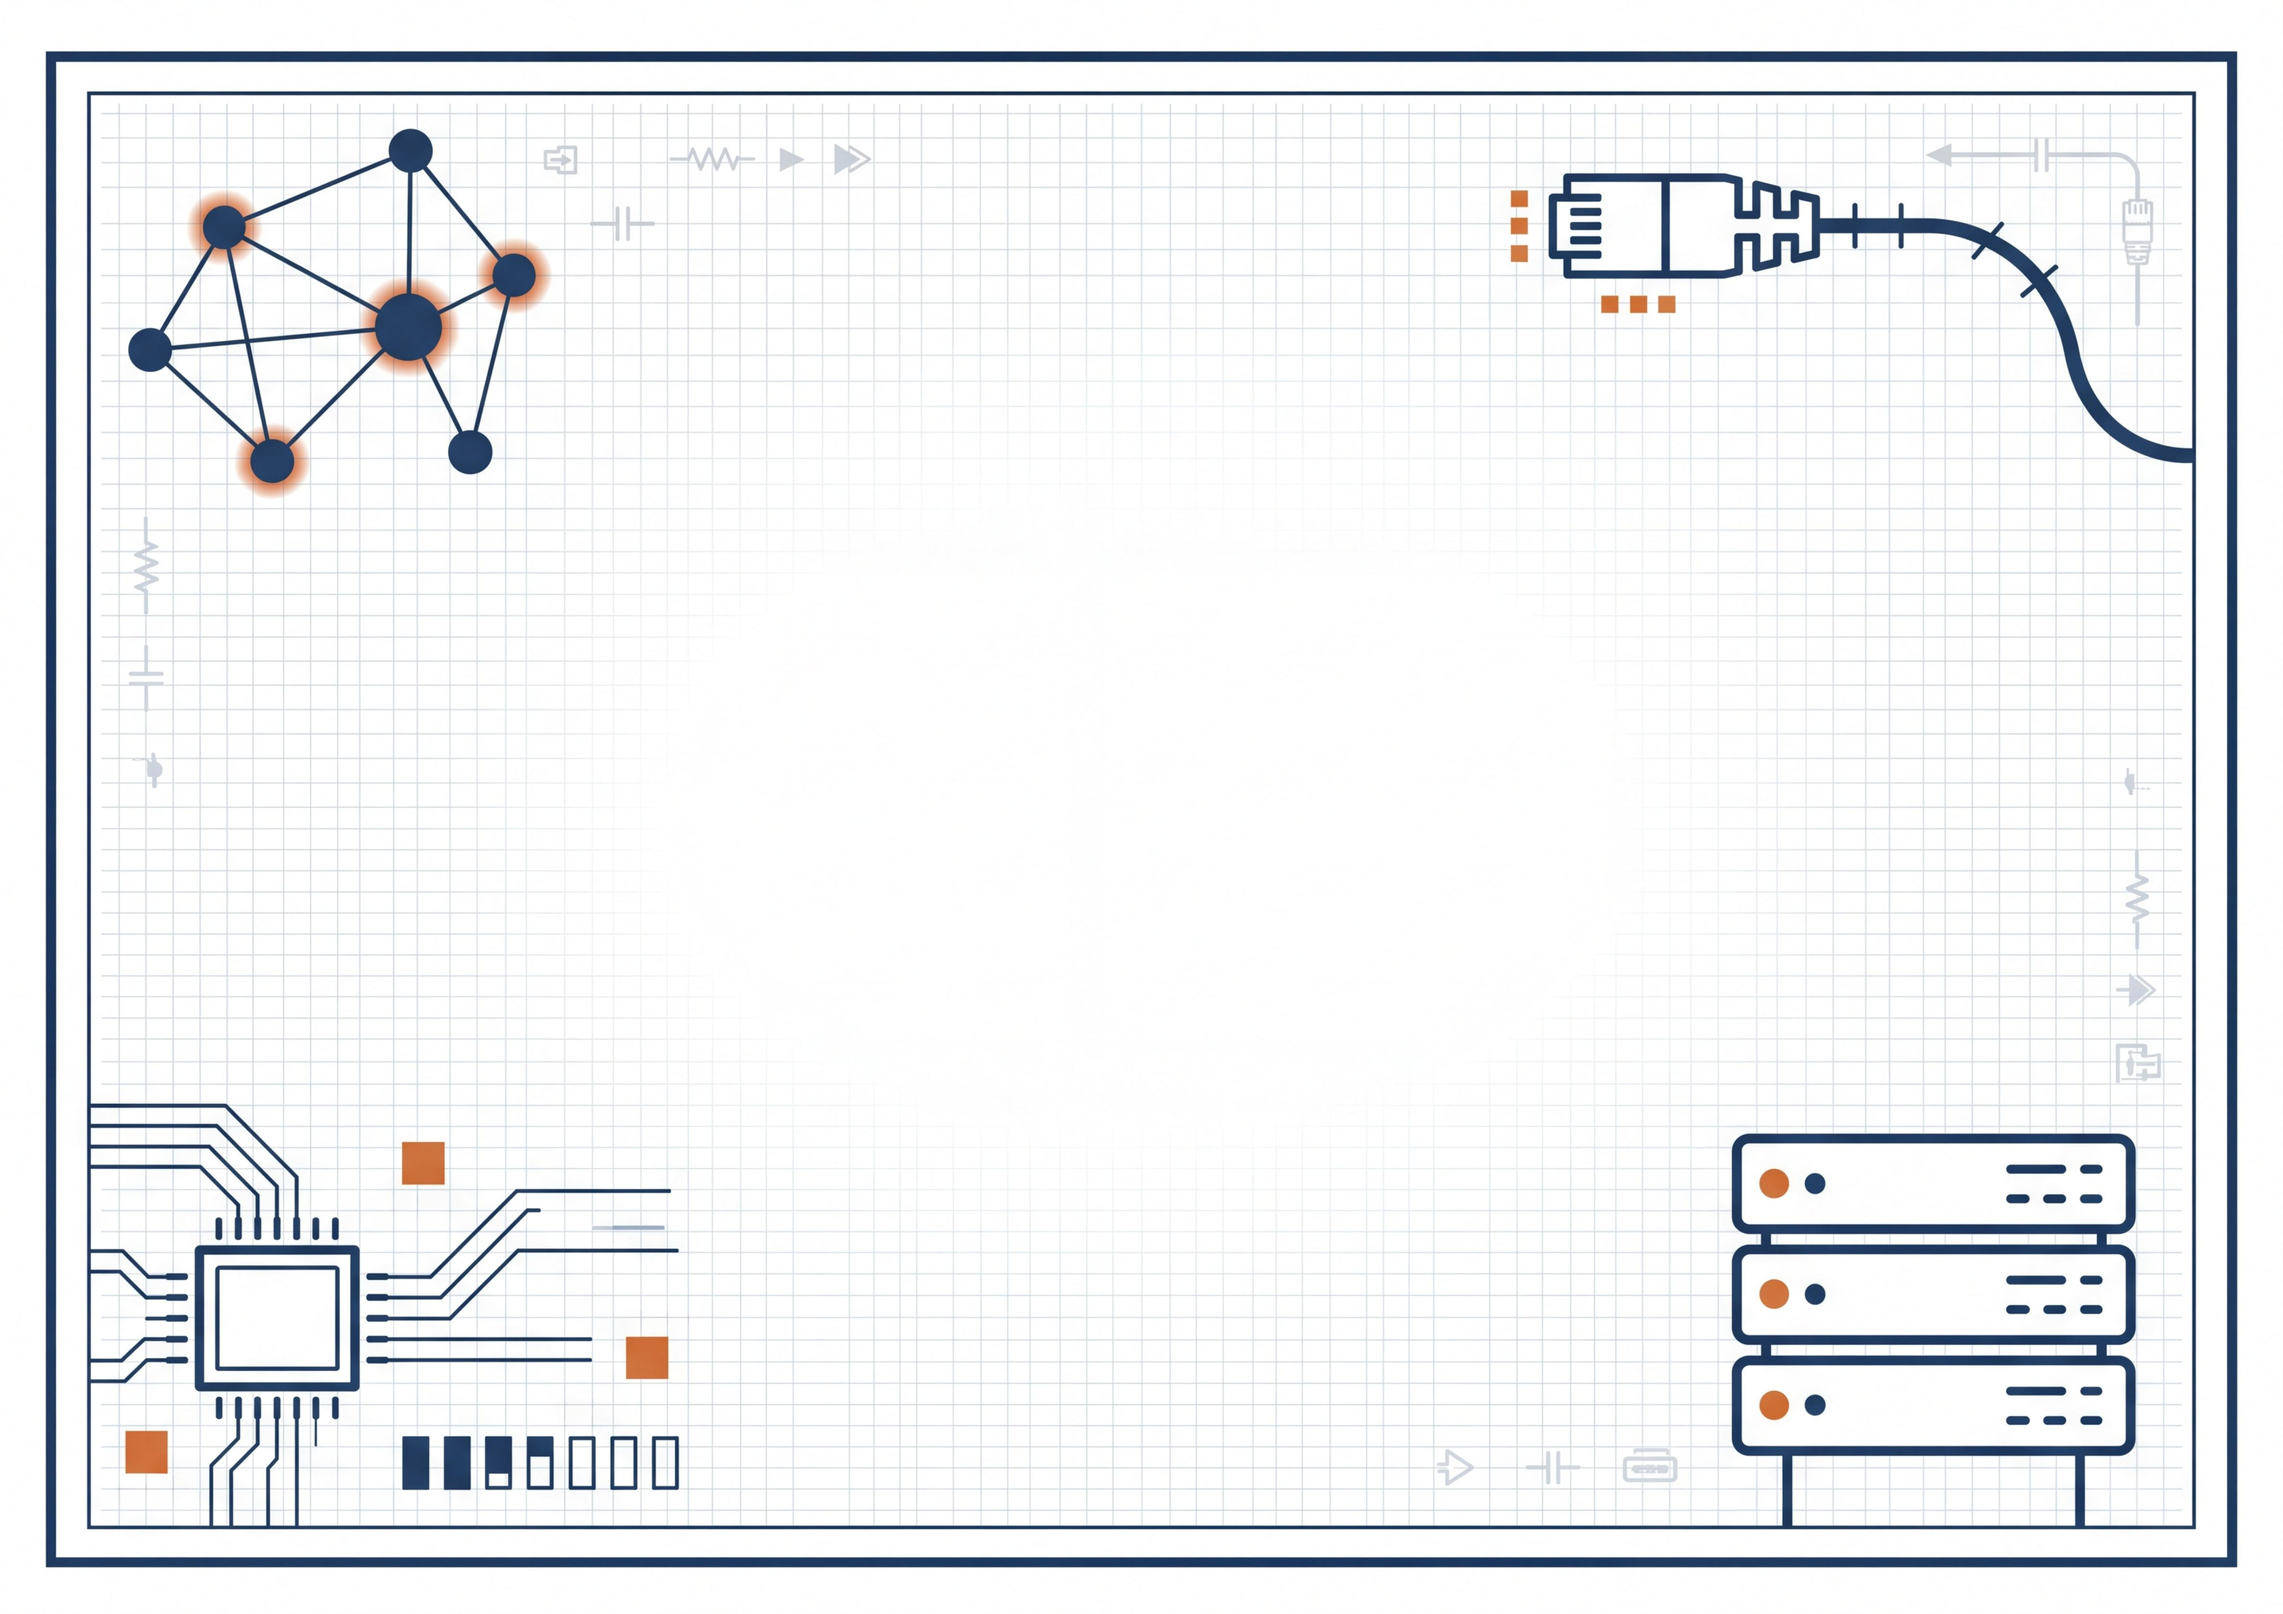
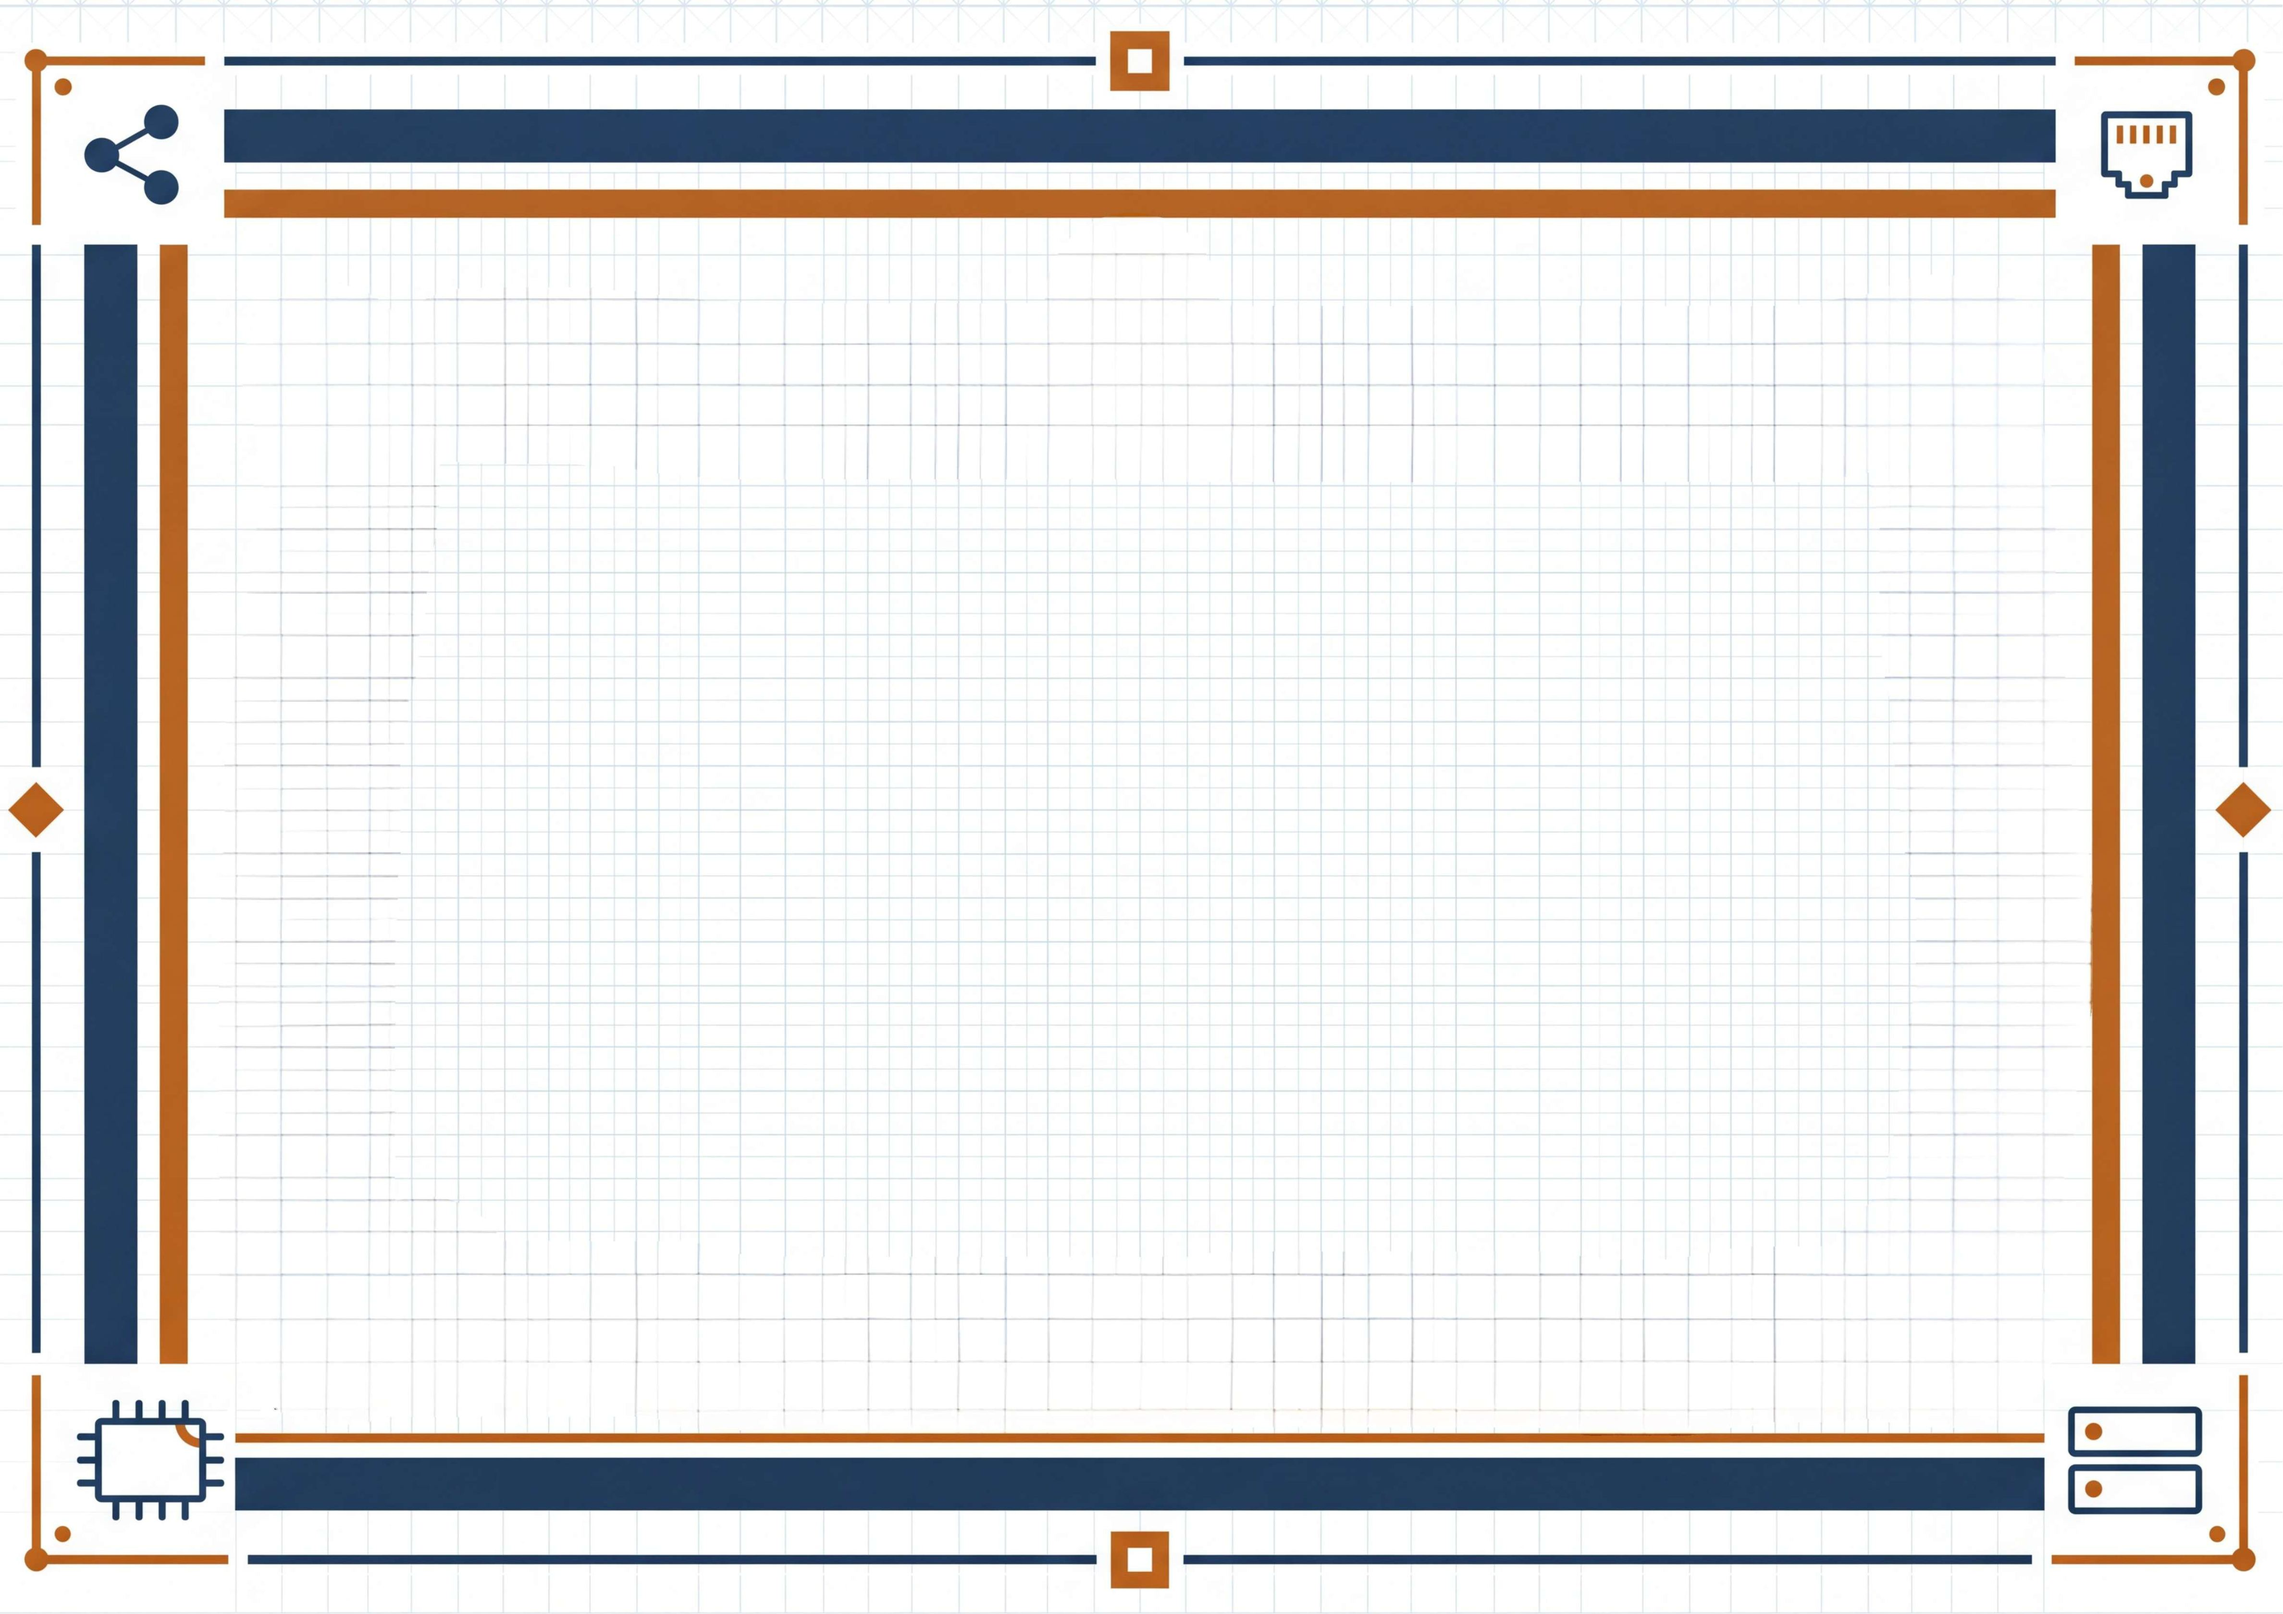
feat(certificates): bespoke Hardware & Networking layout per new template
Replaces the generic landscape layout for the Hardware & Networking program
with a dedicated drawer that matches the client's new reference design:

- New blueprint-style template with corner tech icons (share, RJ45, chip,
  server racks) and top/bottom navy + orange bars, rasterized to 753 KB JPG.
- Large "UNSKILLS COMPUTER EDUCATION" brand (UNSKILLS red, rest black, TM).
- Black ISO ribbon + three sub-header lines.
- Branch logo on the left, student photo box on the right.
- Big serif "CERTIFICATE OF QUALIFICATION" title.
- 9-line certified-that body paragraph (name, parent, course, performance,
  marks/grade, closing wish, held-at center).
- QR + red "Certificate No." pill + Date of Issue bottom-left.
- Horizontal badge strip (4 badges) bottom-center.
- Signature block bottom-right with company line.
- Corporate office line above the template's bottom navy bar.
- Verify URL + email painted in white on the navy bar for one integrated
  footer strip.

Other programs continue to use the generic drawer — only H&N overrides.

diff --git a/src/lib/pdf/cert-generator.ts b/src/lib/pdf/cert-generator.ts
@@ -515,16 +515,9 @@ const THEME_COMPUTER_SOFTWARE: LandscapeTheme = {
   stripX0: 205, stripX1: 841.89 - 265, stripY: 95,
 }
 
-// Hardware & Networking — blueprint style with big corner circuits
-// Decorations: network-graph (TL), RJ45 cable (TR), circuit board (BL), server rack (BR)
-// Content zone is tighter — badge strip kept low to sit between BL circuit + BR server.
-const THEME_HARDWARE_NETWORKING: LandscapeTheme = {
-  primary: C.hnBlue, accent: C.hnOrange, gold: C.hnOrange,
-  isoBg: C.hnBlue, isoText: C.white,
-  logoX: 250, photoX: 841.89 - 310,
-  certBlockX: 320, sigRightX: 841.89 - 360,
-  stripX0: 300, stripX1: 841.89 - 340, stripY: 70,
-}
+// NOTE: Hardware & Networking uses a bespoke drawer (see
+// generateHardwareNetworkingCertificate below) — not the generic landscape
+// theme — because the client specified a completely different layout.
 
 // Skills Development — double-frame navy/gold with red diamonds
 const THEME_SKILLS_DEVELOPMENT: LandscapeTheme = {
@@ -577,6 +570,227 @@ export async function generateComputerSoftwareLandscapeCertificate(
     THEME_COMPUTER_SOFTWARE,
     '/certificates/computer-software-landscape.jpg',
   )
+}
+
+// ─── Hardware & Networking — bespoke landscape layout ─────────────────────────
+
+/**
+ * Dedicated Hardware & Networking landscape certificate. Layout is specified
+ * by the client separately from the other programs: big "UNSKILLS COMPUTER
+ * EDUCATION" brand, large serif "CERTIFICATE OF QUALIFICATION" title, 9-line
+ * body paragraph, branch logo on the left + student photo on the right, red
+ * "Certificate No." pill next to the QR, horizontal badge row in the middle,
+ * script signature on the right, corporate-office line, and the verify URL
+ * painted on top of the template's own bottom navy bar.
+ *
+ * Coordinates fit inside the template's inner white zone:
+ *   x ∈ [85, W-85]  (≈ 85..757)
+ *   y ∈ [90, H-90]  (≈ 90..505)
+ */
+async function drawHardwareNetworkingContent(
+  pdfDoc: PDFDocument,
+  page: PDFPage,
+  fonts: FontSet,
+  data: LandscapeCertData,
+  W: number,
+  H: number,
+) {
+  const { settings } = data
+  const cx = W / 2
+
+  // 1. Top meta row — inside the inner white zone, just below the top bar.
+  drawText(page, 'Reg. by Govt. of India', {
+    x: 95, y: H - 105, size: 10, font: fonts.bodyBold,
+  })
+  const regNoValue = data.enrollmentNumber || settings.institute_reg_number || '—'
+  drawText(page, `Reg. No.-${regNoValue}`, {
+    x: W - 95, y: H - 105, size: 10, font: fonts.bodyBold, align: 'right',
+  })
+
+  // 2. Brand title "UNSKILLS COMPUTER EDUCATION" — UNSKILLS red, rest black.
+  drawBrandTitle(page, {
+    cx, y: H - 138, size: 26, font: fonts.display,
+    leading: '', accent: 'UNSKILLS', trailing: ' COMPUTER EDUCATION',
+    baseColor: C.black, accentColor: C.red,
+  })
+
+  // 3. Black ISO ribbon
+  const isoText = 'An ISO 9001:2015 Certified Organization'
+  const isoSize = 11
+  const isoW = fonts.bodyBold.widthOfTextAtSize(isoText, isoSize) + 28
+  drawRect(page, cx - isoW / 2, H - 170, isoW, 18, C.black)
+  drawText(page, isoText, {
+    x: cx, y: H - 165, size: isoSize, font: fonts.bodyBold, color: C.white, align: 'center',
+  })
+
+  // 4. Three sub-header lines
+  let subY = H - 188
+  for (const line of [settings.sub_header_line_1, settings.sub_header_line_2, settings.sub_header_line_3]) {
+    if (line) {
+      drawText(page, line, {
+        x: cx, y: subY, size: 8, font: fonts.body, color: C.textDark, align: 'center',
+      })
+    }
+    subY -= 11
+  }
+
+  // 5. Branch logo (left) + student photo box (right), positioned below the
+  // sub-headers on either side of the cert title.
+  const logoY = H - 300
+  if (data.trainingCenterLogoUrl) {
+    const logo = await embedAny(pdfDoc, data.trainingCenterLogoUrl)
+    if (logo) page.drawImage(logo, { x: 95, y: logoY, width: 80, height: 80 })
+  }
+  const photoW = 80, photoH = 95
+  const photoX = W - 95 - photoW
+  const photoY = H - 310
+  if (data.studentPhotoUrl) {
+    const photo = await embedAny(pdfDoc, data.studentPhotoUrl)
+    if (photo) {
+      drawRect(page, photoX - 1, photoY - 1, photoW + 2, photoH + 2, C.white, C.hnBlue, 1)
+      page.drawImage(photo, { x: photoX, y: photoY, width: photoW, height: photoH })
+    }
+  } else {
+    drawRect(page, photoX, photoY, photoW, photoH, C.white, C.hnBlue, 1)
+  }
+
+  // 6. Certificate title — big serif caps, centered between the logo + photo.
+  drawText(page, 'CERTIFICATE OF QUALIFICATION', {
+    x: cx, y: H - 240, size: 22, font: fonts.bodyBold, color: C.textDark, align: 'center', letterSpacing: 0.8,
+  })
+
+  // 7. Body — 9 lines, tight 14pt step.
+  let bodyY = H - 270
+  const bStep = 14
+  drawText(page, 'This is to certify that', { x: cx, y: bodyY, size: 10.5, font: fonts.body, align: 'center' })
+  bodyY -= bStep
+  drawText(page, `Mr./Miss/Mrs  ${data.studentName.toUpperCase()}`, {
+    x: cx, y: bodyY, size: 12, font: fonts.bodyBold, color: C.textDark, align: 'center',
+  })
+  bodyY -= bStep
+  drawText(page, `${data.fatherPrefix}/ Mr. ${data.fatherName.toUpperCase()}`, {
+    x: cx, y: bodyY, size: 11, font: fonts.bodyBold, align: 'center',
+  })
+  bodyY -= bStep
+  drawText(page, 'has successfully completed the', {
+    x: cx, y: bodyY, size: 10.5, font: fonts.body, align: 'center',
+  })
+  bodyY -= bStep
+  drawText(page, `${data.courseCode} - ${data.courseName}`, {
+    x: cx, y: bodyY, size: 13, font: fonts.bodyBold, color: C.textDark, align: 'center',
+  })
+  bodyY -= bStep
+  drawText(page, `his/her performance during the course has been ${data.performanceText || 'Excellent'}`, {
+    x: cx, y: bodyY, size: 10.5, font: fonts.body, align: 'center',
+  })
+  bodyY -= bStep
+  drawText(page, `He/She scored ${data.percentage} marks & secured the Grade "${data.grade}"`, {
+    x: cx, y: bodyY, size: 10.5, font: fonts.body, align: 'center',
+  })
+  bodyY -= bStep
+  drawText(page, 'We wish him/her for bright future', {
+    x: cx, y: bodyY, size: 10.5, font: fonts.body, align: 'center',
+  })
+  bodyY -= bStep
+  drawText(page, `Held at ${data.trainingCenterName}`, {
+    x: cx, y: bodyY, size: 11, font: fonts.bodyBold, align: 'center',
+  })
+
+  // 8. QR + "Certificate No." red pill + "Date of Issue" (bottom-left cluster)
+  const qrSize = 52
+  const qrX = 100
+  const qrY = 130
+  const qr = await embedAny(pdfDoc, data.qrCodeDataUrl)
+  if (qr) {
+    drawRect(page, qrX - 1, qrY - 1, qrSize + 2, qrSize + 2, C.white, C.black, 0.5)
+    page.drawImage(qr, { x: qrX, y: qrY, width: qrSize, height: qrSize })
+  }
+  const pillX = qrX + qrSize + 8
+  const pillY = qrY + qrSize - 24
+  const pillW = 200
+  const pillH = 22
+  drawRect(page, pillX, pillY, pillW, pillH, C.red)
+  drawText(page, `Certificate No. : ${data.certificateNumber}`, {
+    x: pillX + pillW / 2, y: pillY + 7, size: 10, font: fonts.bodyBold, color: C.white, align: 'center',
+  })
+  drawText(page, `Date of Issue : ${data.issueDate}`, {
+    x: pillX, y: pillY - 16, size: 10, font: fonts.bodyBold, color: C.textDark,
+  })
+
+  // 9. Badge row (bottom-center) — sits between the QR cluster and the
+  // signature. Uses the first 4 configured badges so logos don't crowd.
+  const badges = await loadBadges(pdfDoc, data.certificationLogoUrls)
+  const visibleBadges = badges.slice(0, Math.min(4, badges.length))
+  if (visibleBadges.length > 0) {
+    const badgeY = 135
+    const badgeH = 30
+    const badgeX0 = 360
+    const badgeX1 = W - 255
+    const badgeSp = (badgeX1 - badgeX0) / visibleBadges.length
+    for (let i = 0; i < visibleBadges.length; i++) {
+      const img = visibleBadges[i]
+      if (!img) continue
+      const ar = img.width / img.height
+      const w = Math.min(badgeH * ar, badgeSp - 6)
+      const h = w / ar
+      const bx = badgeX0 + i * badgeSp + badgeSp / 2 - w / 2
+      const by = badgeY + (badgeH - h) / 2
+      page.drawImage(img, { x: bx, y: by, width: w, height: h })
+    }
+  }
+
+  // 10. Signature (bottom-right)
+  const sigRight = W - 95
+  const sigLeft = sigRight - 150
+  if (settings.signature_image_url) {
+    const sig = await embedAny(pdfDoc, settings.signature_image_url)
+    if (sig) page.drawImage(sig, { x: sigRight - 110, y: 175, width: 110, height: 30 })
+  } else if (settings.signatory_name) {
+    drawText(page, settings.signatory_name, {
+      x: sigRight, y: 182, size: 18, font: fonts.script, color: C.textDark, align: 'right',
+    })
+  }
+  drawLine(page, sigLeft, 172, sigRight, 172, 0.8, C.black)
+  drawText(page, settings.signatory_designation || 'Chief Executive Officer', {
+    x: sigRight, y: 158, size: 10, font: fonts.bodyBold, align: 'right',
+  })
+  drawText(page, settings.signatory_company_line || 'UnSkills FuturePath Tech Pvt. Ltd.', {
+    x: sigRight, y: 145, size: 9, font: fonts.body, align: 'right',
+  })
+
+  // 11. Corporate office (above the bottom navy bar)
+  if (settings.corporate_office_address) {
+    drawText(page, `Corporate Office : ${settings.corporate_office_address}`, {
+      x: cx, y: 108, size: 9.5, font: fonts.bodyBold, color: C.textDark, align: 'center',
+    })
+  }
+
+  // 12. Verify URL + email — painted in white on top of the template's navy
+  // bottom bar so it reads like a single integrated strip.
+  if (settings.verification_url_base) {
+    drawText(page, `To verify this certificate visit : ${settings.verification_url_base}`, {
+      x: cx, y: 75, size: 9.5, font: fonts.bodyBold, color: C.white, align: 'center',
+    })
+  }
+  if (settings.contact_email) {
+    drawText(page, `Mail us : ${settings.contact_email}`, {
+      x: cx, y: 60, size: 8.5, font: fonts.body, color: C.white, align: 'center',
+    })
+  }
+}
+
+async function generateHardwareNetworkingCertificate(
+  data: LandscapeCertData,
+): Promise<Uint8Array> {
+  const pdfDoc = await makeDocWithTemplate(
+    '/certificates/hardware-networking-landscape.jpg',
+    A4_LANDSCAPE,
+  )
+  const fonts = await loadFonts(pdfDoc)
+  const page = pdfDoc.getPages()[0]
+  const { width: W, height: H } = page.getSize()
+  await drawHardwareNetworkingContent(pdfDoc, page, fonts, data, W, H)
+  return pdfDoc.save()
 }
 
 // ─── Typing — portrait ────────────────────────────────────────────────────────
@@ -964,10 +1178,7 @@ export async function generateCertificate(
         '/certificates/computer-software-landscape.jpg',
       )
     case 'hardware-networking-landscape':
-      return generateLandscapeCertificate(
-        certData, THEME_HARDWARE_NETWORKING,
-        '/certificates/hardware-networking-landscape.jpg',
-      )
+      return generateHardwareNetworkingCertificate(certData)
     case 'skills-development-landscape':
       return generateLandscapeCertificate(
         certData, THEME_SKILLS_DEVELOPMENT,
